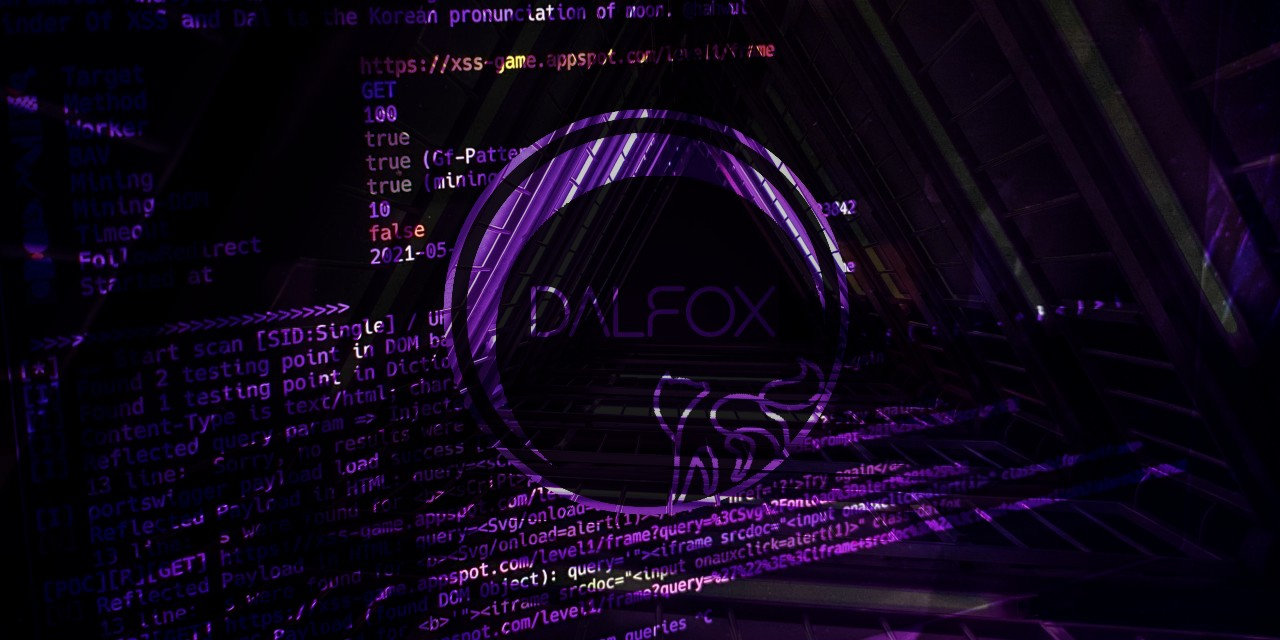
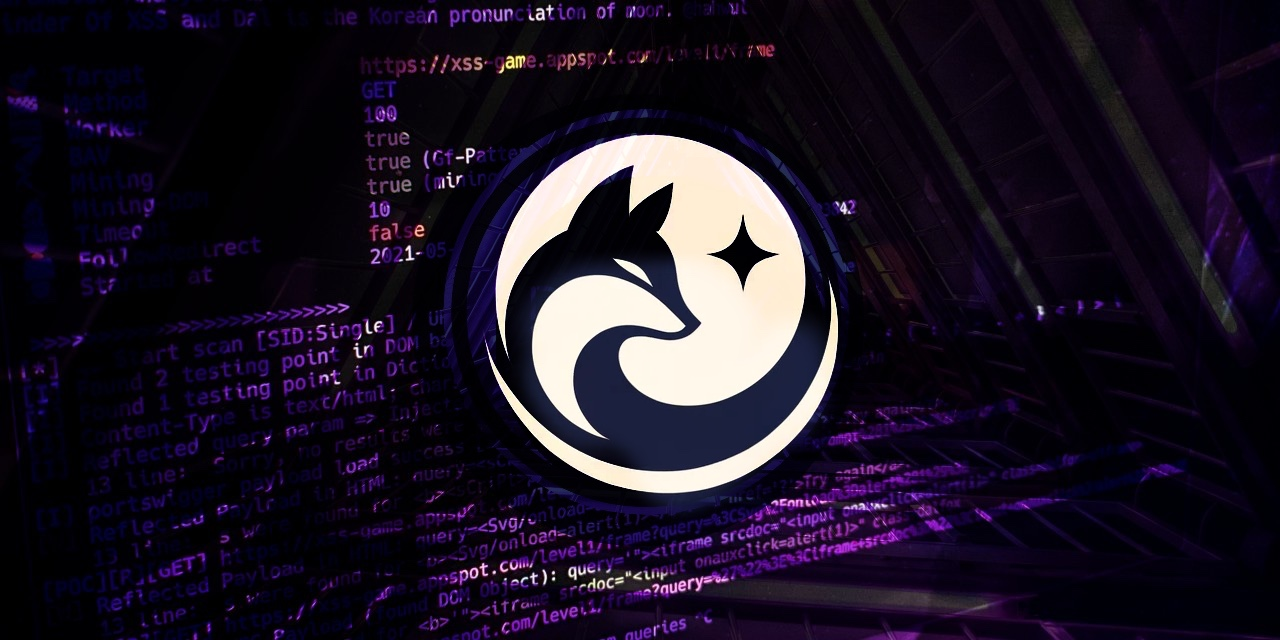
Update image

Changed region(s): [[0.3125, 0.1562, 0.6875, 0.875]]

diff --git a/docs/index.html b/docs/index.html
@@ -5,7 +5,7 @@ layout: default
 <div class="header-container jumbotron">
     <div class="container">
 	<h1>🌙🦊 = XSS</h1>
-	<p>Powerful open source XSS scanning tool and parameter analyzer, utility</p><br><br><br><br>
+	<p>Dalfox is a powerful open-source XSS scanner and utility focused on automation.</p><br><br><br><br>
         <p><a class="btn btn-primary btn-lg" href="{{ "/docs/installation/" | relative_url }}" role="button">Install</a></p>
     </div>
 </div>
